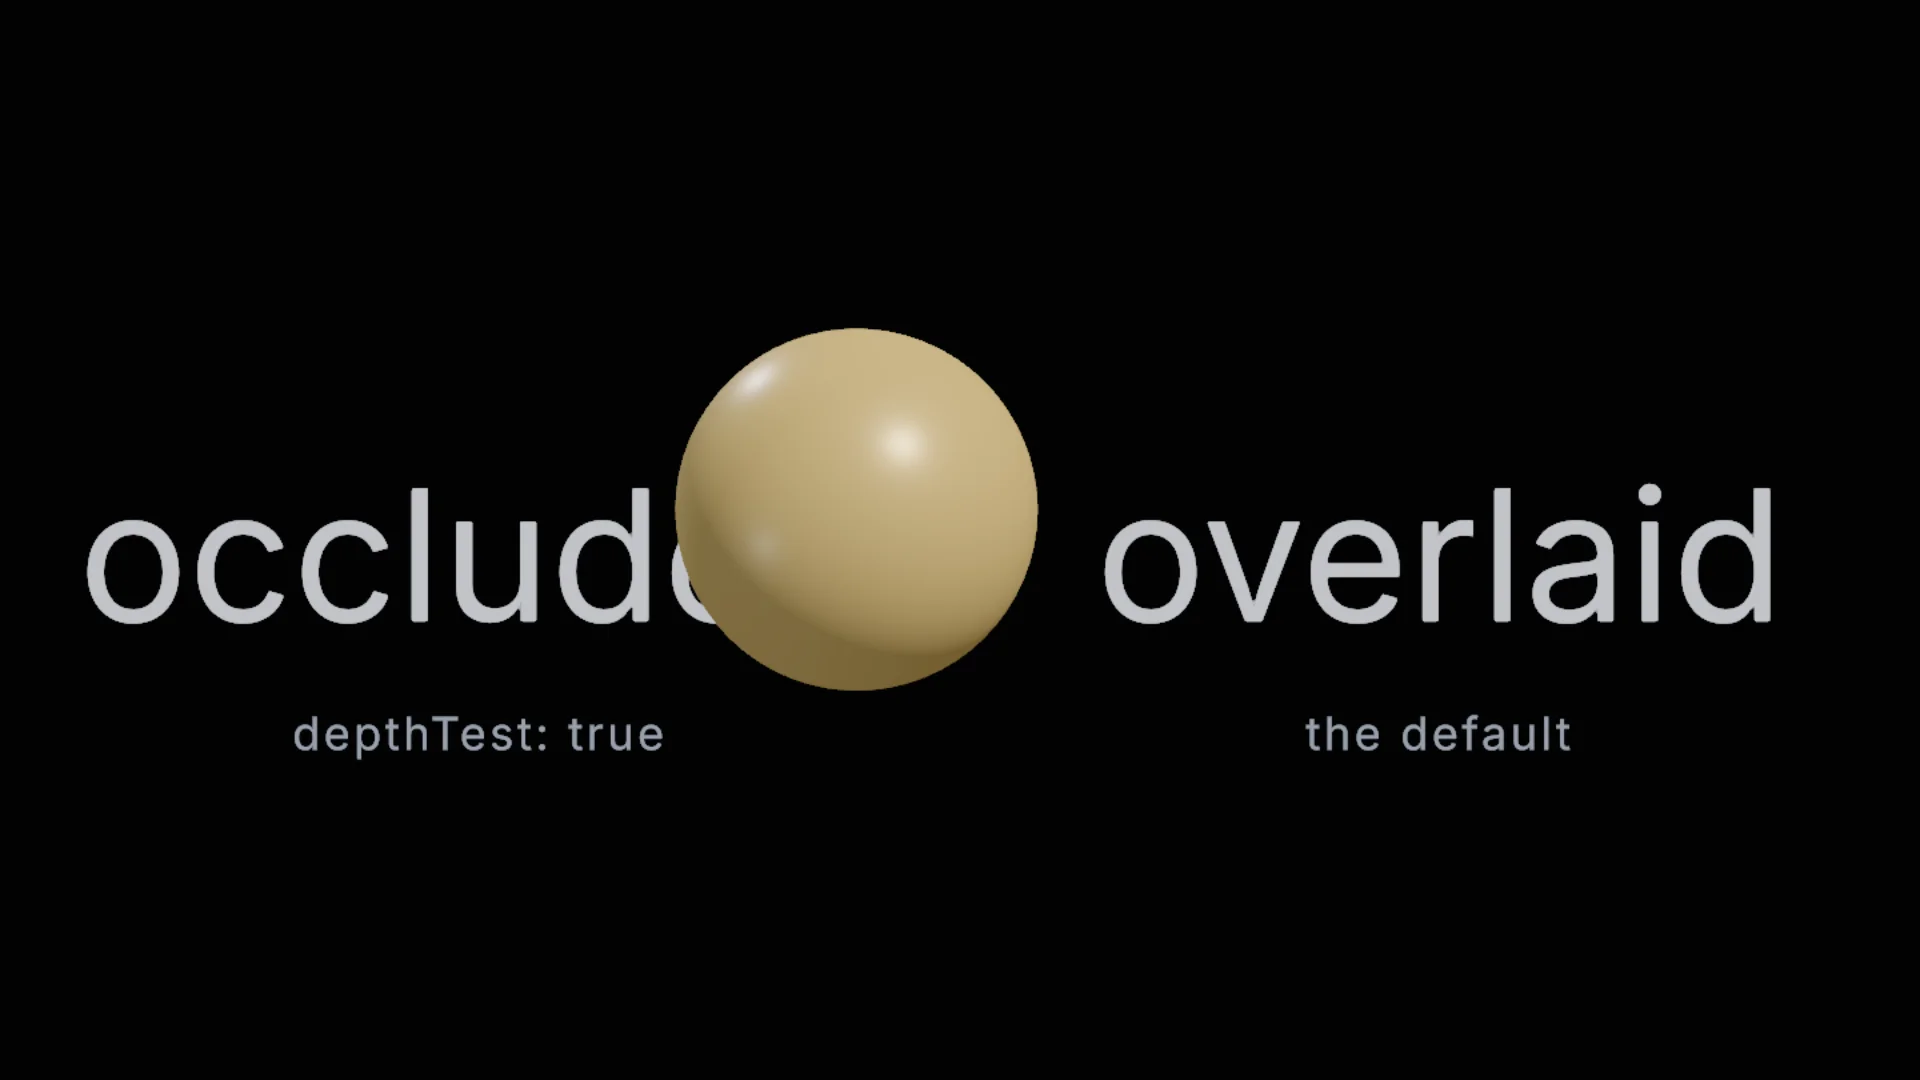
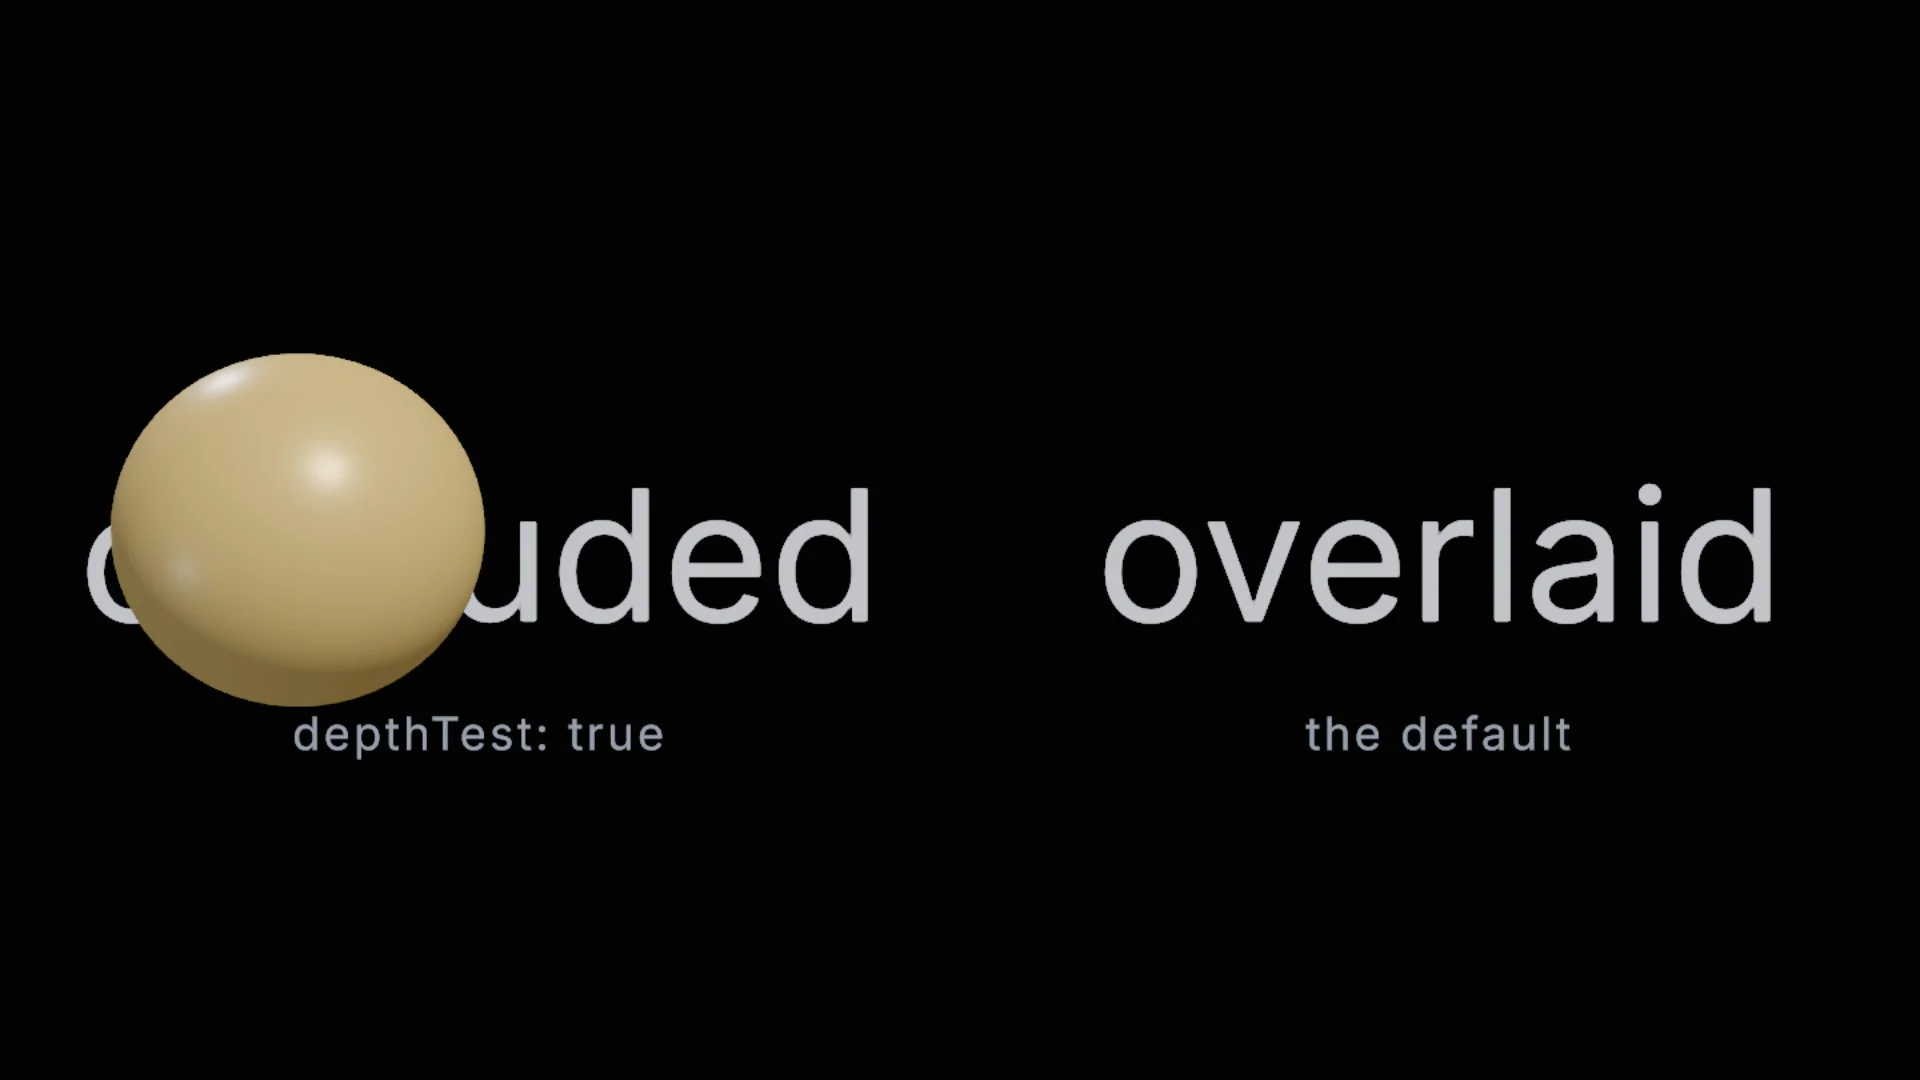
feat(site): the depth scene's ball slides on one axis in front of the text
The ball used to orbit through the text plane, so it clipped the
occluded word instead of hiding it. It now slides left and right at one
depth just in front of the plane: the occluded word disappears behind
it, the overlaid word draws over it, and nothing intersects. Twin and
label follow; the still is recaptured.

Changed region(s): [[0.3438, 0.3056, 0.5625, 0.6417], [0.0312, 0.3056, 0.25, 0.6722]]

diff --git a/site/examples/src/scenes/depth/scene.tsx b/site/examples/src/scenes/depth/scene.tsx
@@ -11,10 +11,11 @@ import { ACCENT, PAPER, PAPER_DIM } from '../../theme';
 /**
  * The default material draws over everything — `depthTest: false` — so a
  * label is never lost behind the model it annotates. Turn the test on and the
- * text is a surface in the scene: geometry in front of it hides it, geometry
- * behind it does not. `depthWrite` stays off either way; a glyph quad is
- * transparent outside its ink and would punch a rectangle into whatever it
- * covers.
+ * text is a surface in the scene: geometry in front of it hides it. A ball
+ * slides across both words at one depth, in front of the text plane: it hides
+ * the occluded word and passes under the overlaid one. `depthWrite` stays off
+ * either way; a glyph quad is transparent outside its ink and would punch a
+ * rectangle into whatever it covers.
  */
 const inScene = defineTextMaterial((context) => {
   const material = context.createDefaultMaterial();
@@ -22,20 +23,29 @@ const inScene = defineTextMaterial((context) => {
   return material;
 });
 
+const BALL_RADIUS = 0.9;
+/** The whole ball stays in front of the text plane at z = 0. */
+const BALL_Z = BALL_RADIUS + 0.25;
+/** Level with the words' middle. */
+const BALL_Y = 0.05;
+/** Far enough to clear both words. */
+const BALL_SWING = 3.9;
+
 export default function Depth() {
   const inter = useMsdf(INTER);
   const ball = useRef<Mesh>(null);
 
   useFrame(({ elapsed }) => {
-    const t = elapsed * 0.6;
-    // An ellipse through both words: in front of them for half a turn, behind for the other half.
-    ball.current?.position.set(Math.sin(t) * 3.4, 0.15, Math.cos(t) * 1.4);
+    // One axis: the ball slides across both words at a fixed depth just in
+    // front of the text plane, so it never intersects the text. The occluded
+    // word hides behind it; the overlaid word draws over it.
+    ball.current?.position.set(Math.sin(elapsed * 0.6) * BALL_SWING, BALL_Y, BALL_Z);
   });
 
   return (
     <>
-      <mesh ref={ball}>
-        <sphereGeometry args={[0.9, 48, 32]} />
+      <mesh ref={ball} position={[0, BALL_Y, BALL_Z]}>
+        <sphereGeometry args={[BALL_RADIUS, 48, 32]} />
         <meshStandardNodeMaterial color={ACCENT} metalness={0.1} roughness={0.35} />
       </mesh>
       <Text

diff --git a/site/examples/src/scenes/depth/three.ts b/site/examples/src/scenes/depth/three.ts
@@ -15,6 +15,11 @@ const inScene = defineTextMaterial((context) => {
   return material;
 });
 
+const BALL_RADIUS = 0.9;
+const BALL_Z = BALL_RADIUS + 0.25;
+const BALL_Y = 0.05;
+const BALL_SWING = 3.9;
+
 export async function mount(scene: Scene): Promise<() => void> {
   await glyph.init();
   const three = glyph.handle('examples:depth', ThreeConfig);
@@ -22,9 +27,10 @@ export async function mount(scene: Scene): Promise<() => void> {
   await inter.load();
 
   const ball = new Mesh(
-    new SphereGeometry(0.9, 48, 32),
+    new SphereGeometry(BALL_RADIUS, 48, 32),
     new MeshStandardNodeMaterial({ color: '#ffd166', metalness: 0.1, roughness: 0.35 }),
   );
+  ball.position.set(0, BALL_Y, BALL_Z);
 
   const occluded = three.createText({
     font: inter,
@@ -52,8 +58,7 @@ export async function mount(scene: Scene): Promise<() => void> {
   let elapsed = 0;
   const tick = (): void => {
     elapsed += 1 / 60;
-    const t = elapsed * 0.6;
-    ball.position.set(Math.sin(t) * 3.4, 0.15, Math.cos(t) * 1.4);
+    ball.position.x = Math.sin(elapsed * 0.6) * BALL_SWING; // one axis, in front of the text plane
     frame = requestAnimationFrame(tick);
   };
   frame = requestAnimationFrame(tick);
